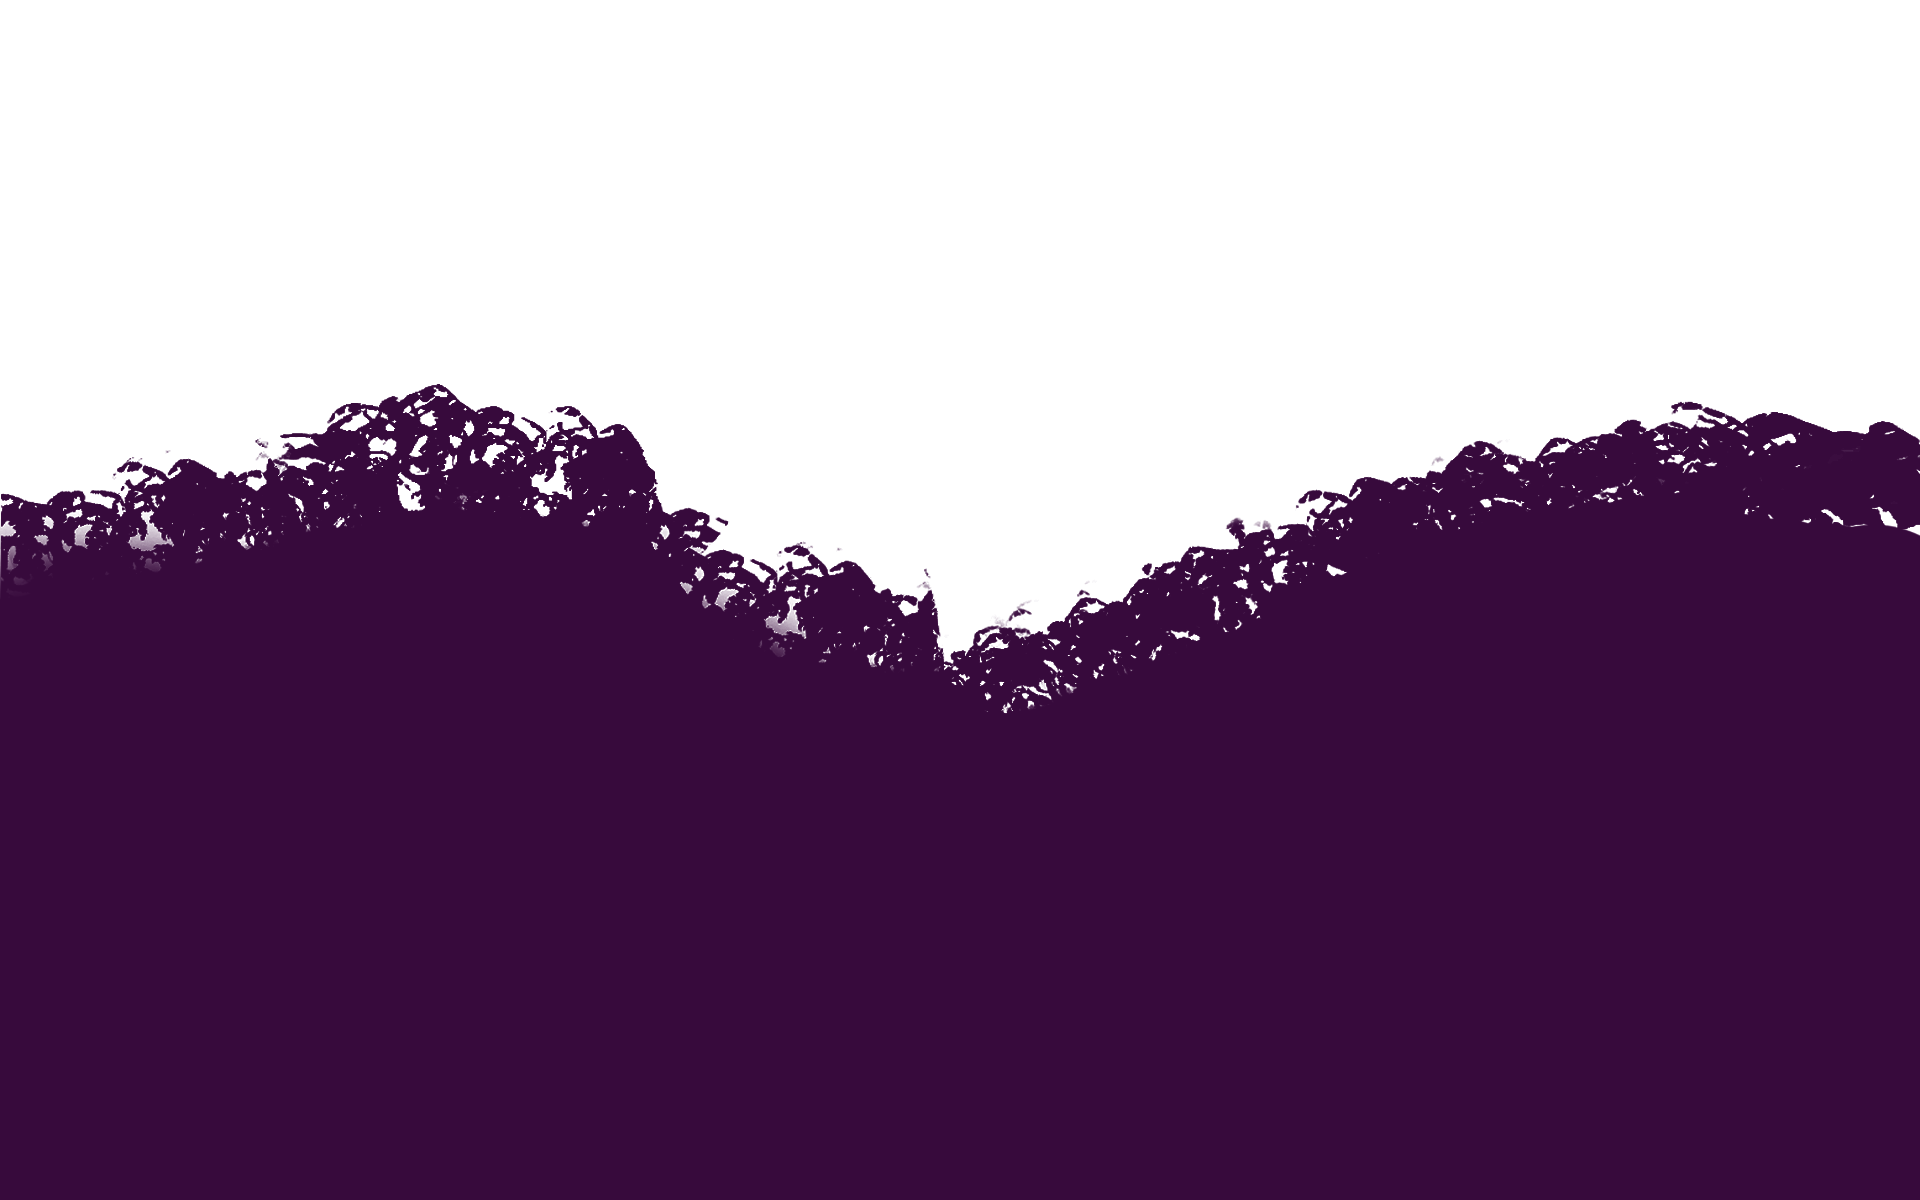
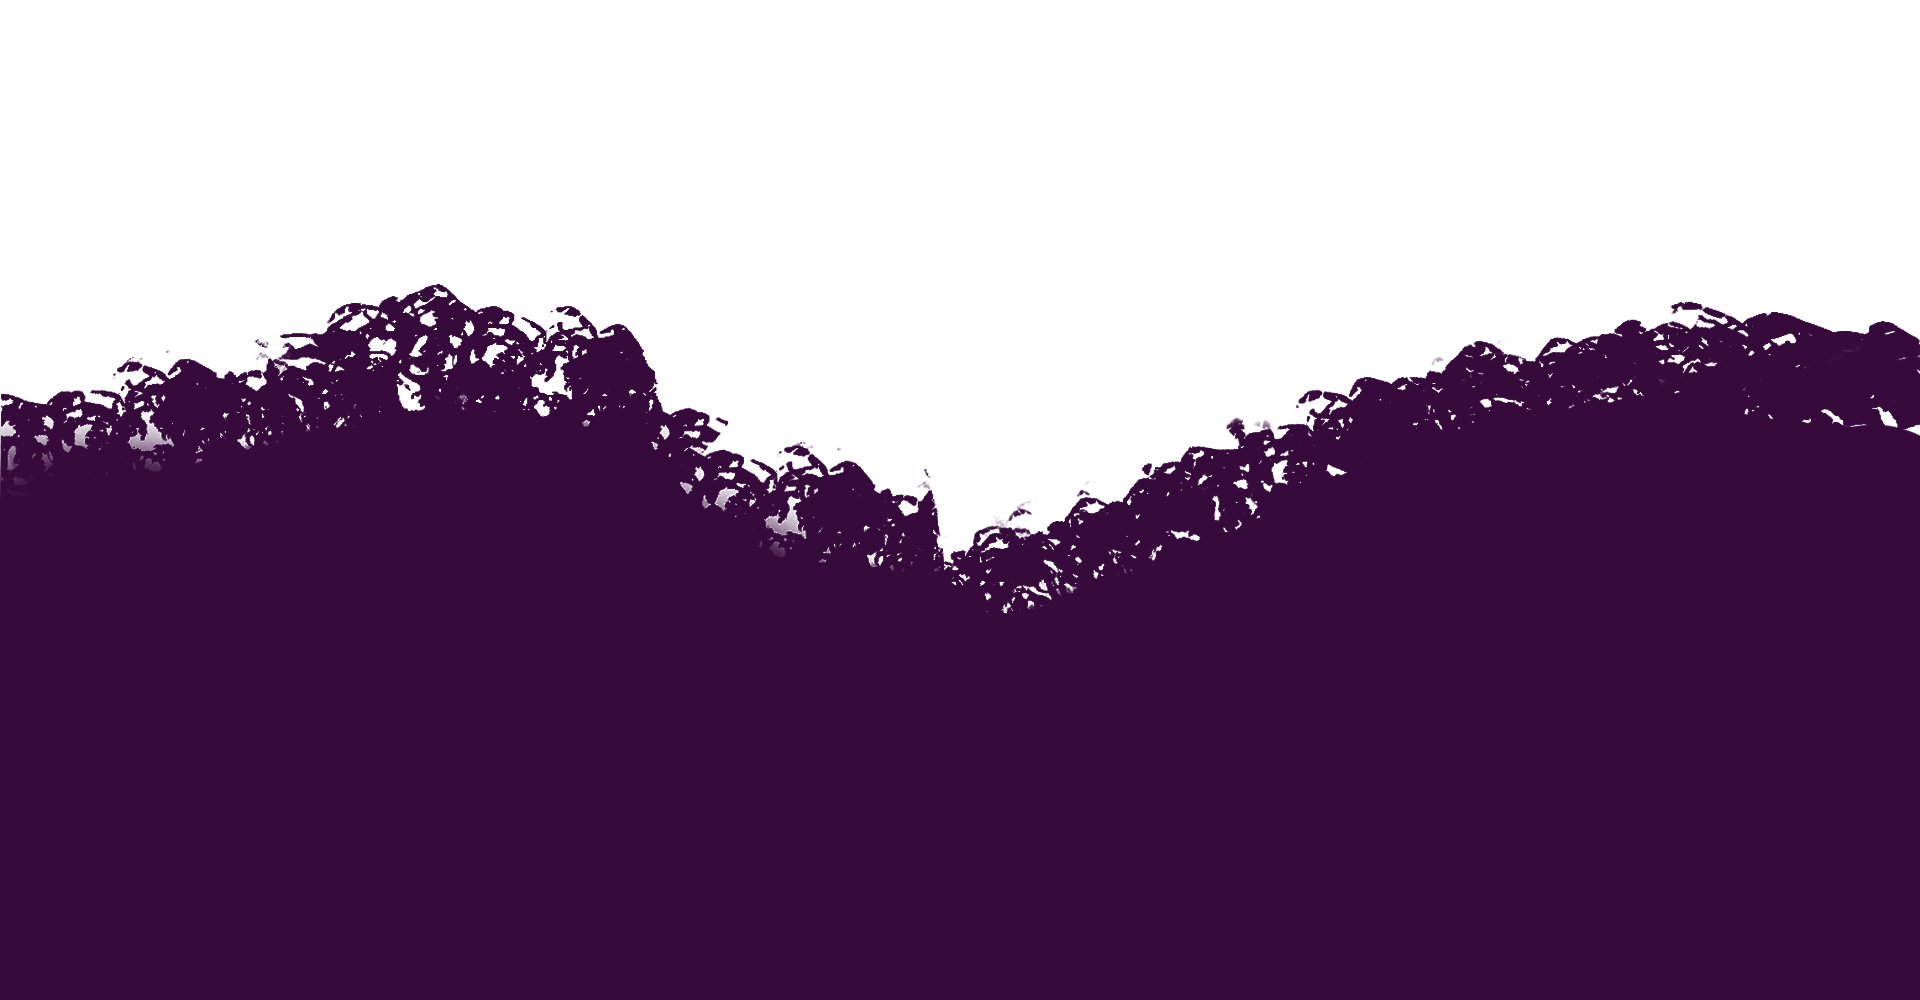
mobile ready, need to redo team

Changed region(s): [[0.0, 0.279, 0.625, 0.62], [0.5938, 0.279, 1.0, 0.527], [0.9375, 0.403, 1.0, 0.465]]

diff --git a/css/style.css b/css/style.css
@@ -121,18 +121,6 @@ body {
   background-attachment: fixed;
 }
 
-.layer {
-  background-position: bottom center;
-  background-size: auto;
-  background-repeat: no-repeat;
-  width: 100%;
-  height: 1200px;
-  position: fixed;
-  z-index: -1;
-  padding: 0;
-  margin: 0;
-  
-}
 
 .dlbutton{
   margin-top: -10%;
@@ -173,36 +161,55 @@ p {
 #footerContents {
   height: 200px;
 }
-#hero, .layer {
-  max-height: 1200px;
+
+.footercell {
+  margin-left: 10%;
+  margin-right: 10%
 }
 
+#hero, .layer {
+  max-height: 1000px;
+}
+
+
+.layer {
+  background-position: bottom center;
+  background-size: auto;
+  background-repeat: no-repeat;
+  width: 100%;
+  height: 1000px;
+  position: fixed;
+  z-index: -1;
+  padding: 0;
+  margin: 0; 
+}
 
 .layer-bg {
   background-image: url("../assets/layer_1.png");
   background-size: cover;
+  background-position: bottom center;
     
 }
 
 .layer-1 {
   background-image: url("../assets/layer_2.png"); 
-  background-size: 100%;
+  background-size: cover;
 }
 
 .layer-2 {
   background-image: url("../assets/layer_3.png");
-  background-size: 100%;
+  background-size: cover;
   
 }
 .layer-logo {
   background-image: url("../assets/logo.png");
-  background-size: 100%;
+  background-size: cover;
   
 }
 
 .layer-3 {
   background-image: url("../assets/layer_4.png");
-  background-size: 100%;
+  background-size: cover;
 }
 
 .layer-4 {

diff --git a/index.html b/index.html
@@ -119,20 +119,22 @@
     <div class="minicontainer dusk">
       <div id="footerContents">
         <div class="col3">
-          <div style="margin-left: 10%; margin-right: 10%">
+          <div class="footercell">
             <h3>Published By</h3>
           </div>
           
         </div>
         <div class="col3">
-          <div style="margin-left: 10%; margin-right: 10%">
-            <h3>Social Media</h3>
+          <div class="footercell">
+            <h3>Published By</h3>
           </div>
+          
         </div>
         <div class="col3">
-          <div style="margin-left: 10%; margin-right: 10%">
-            <h3>Contact Us</h3>
+          <div class="footercell">
+            <h3>Published By</h3>
           </div>
+          
         </div>
       
       </div>
